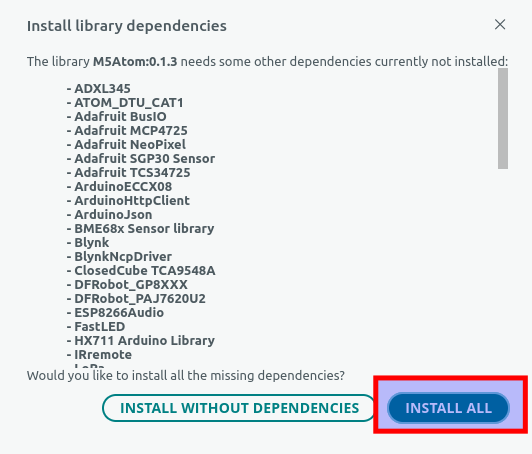
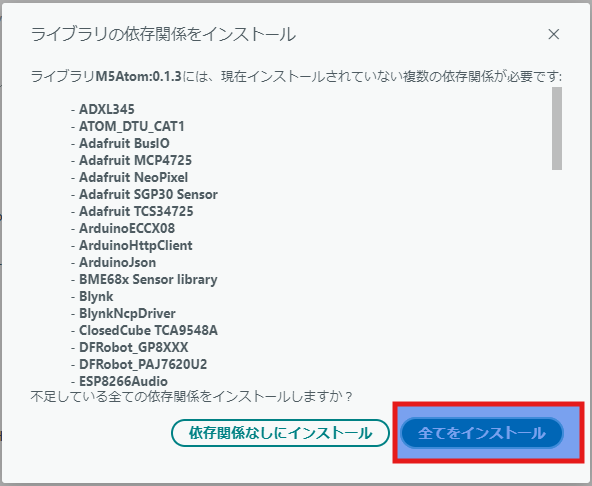
enviroment modified

Changed region(s): [[0.0, 0.0, 1.0, 1.0]]

diff --git a/enviroment.md b/enviroment.md
@@ -30,34 +30,30 @@ page_nav:
 
 利用環境
 -------------------------
-- Ubuntu 22.04
+- Windows 11 Home
 - Atom Lite
 - Arduino 2.3.6
 
 導入手順
 -------------------------
 ### Arduino のインストール
-1. <https://www.arduino.cc/en/software/#ide> にアクセスし、 Arduino IDE をダウンロードします。 Ubuntu OSのため、今回は **Linux AppImage 64 bits (X86-64)** を選択します。
+1. <https://www.arduino.cc/en/software/#ide> にアクセスし、 Arduino IDE をダウンロードします。 Windows 64bit OS のため、今回は **Windows Win 10 and newer, 64 bits** を選択します。
 
     <div class="callout callout--info">
         <p>ダウンロードするにはメールアドレスが必要です。</p>
     </div>
     ![1](../images/enviroment/1.png)
 
-2. ダウンロードしたファイル (*arduino-ide_2.3.6_Linux_64bit.AppImage*) を右クリックして **プロパティ** を選択します。
-**アクセス権** タブを選択し、**プログラムとして実行可能** をチェックします。 
-    ![2](../images/enviroment/2.png)
+2. ダウンロードしたファイル (*arduino-ide_2.3.6_Windows_64bit.exe*) をダブルクリックし、実行します。
+    ![201](../images/enviroment/201.png)
+    ![202](../images/enviroment/202.png)
+    ![203](../images/enviroment/203.png)
+    ![204](../images/enviroment/204.png)
+    ![205](../images/enviroment/205.png)
 
-3. *arduino-ide_2.3.6_Linux_64bit.AppImage* ファイルをダブルクリックして起動します。起動できない場合、FUSE がインストールされているか確認します。
-
-    Ubuntu 22.04 以上の場合:
-    ```
-    sudo add-apt-repository universe
-    sudo apt install libfuse2
-    ```
 
 ### ボードのインストール
-1. File > **Preference** を開きます。
+1. ファイル > **基本設定** を開きます。
     ![3](../images/enviroment/3.png)
 
     <div class="callout callout--info">
@@ -65,34 +61,34 @@ page_nav:
         <p>https://static-cdn.m5stack.com/resource/arduino/package_m5stack_index.json</p>
     </div>
     
-    Settings タブの一番下の Additional boards manager URLs 項目に上記の **M5Stack ボード管理 URL** を入力し、**OK** をクリックして保存します。
+    設定 タブの一番下の 追加のボードマネージャのURL 項目に上記の **M5Stack ボード管理 URL** を入力し、**OK** をクリックして保存します。
 
     ![4](../images/enviroment/4.png)
 
-2. サイドバーの**ボード管理**を開き、**M5Stack** を入力し、**INSTALL** をクリックします。
+2. サイドバーの**ボード管理**を開き、**M5Stack** を入力し、**インストール** をクリックします。
     ![5](../images/enviroment/5.png)
 
-3. 使用するボードに応じて、Tools > Board > M5Stack > 対応する開発ボードを選択します。Atom Lite の場合は **M5Atom** を選択します。
+3. 使用するボードに応じて、ツール > ボード > M5Stack > 対応する開発ボードを選択します。Atom Lite の場合は **M5Atom** を選択します。
     ![6](../images/enviroment/6.png)
 
 ### ライブラリのインストール
-1. サイドバーの**ライブラリ管理**を開き、**M5Atom** を入力し、**INSTALL** をクリックします。
+1. サイドバーの**ライブラリ管理**を開き、**M5Atom** を入力し、**インストール** をクリックします。
     ![7](../images/enviroment/7.png)
 
-    **INSTALL ALL** をクリックします。
+    **全てをインストール** をクリックします。
     ![8](../images/enviroment/8.png)
 
 ### Arduino プログラムの動かし方
 1. Atom Lite を USB で PC に接続します。
 
-2. Auduino IDE で File > **Open** をクリックし、サンプルプログラム (.ino ファイル) を選択します。
-    ![11](../images/enviroment/11.png)
-
+2. Auduino IDE で ファイル > **開く** をクリックし、サンプルプログラム (.ino ファイル) を選択します。
     ![9](../images/enviroment/9.png)
 
-3. ボードを **M5Atom** に指定します。![12](../images/enviroment/upload.png) アイコンをクリックして、コンパイルが実行された後、Atom Lite へ書き込みます。
-    ※ ![13](../images/enviroment/verify.png) はデバイスへ書き込まずコンパイルだけが実行されます。 
     ![10](../images/enviroment/10.png)
+
+3. ボードを **M5Atom** に指定します。![12](../images/enviroment/upload.png) アイコンをクリックし、コンパイルした後、Atom Lite へ書き込みます。
+    ![13](../images/enviroment/verify.png) はデバイスへ書き込まずコンパイルのみが実施されます。 
+    ![11](../images/enviroment/11.png)
 
 ### Arduino プログラムの基本構造
 Arduinoで書くプログラムは「スケッチ」と呼ばれ、基本的にこの2つの関数から構成されます。
